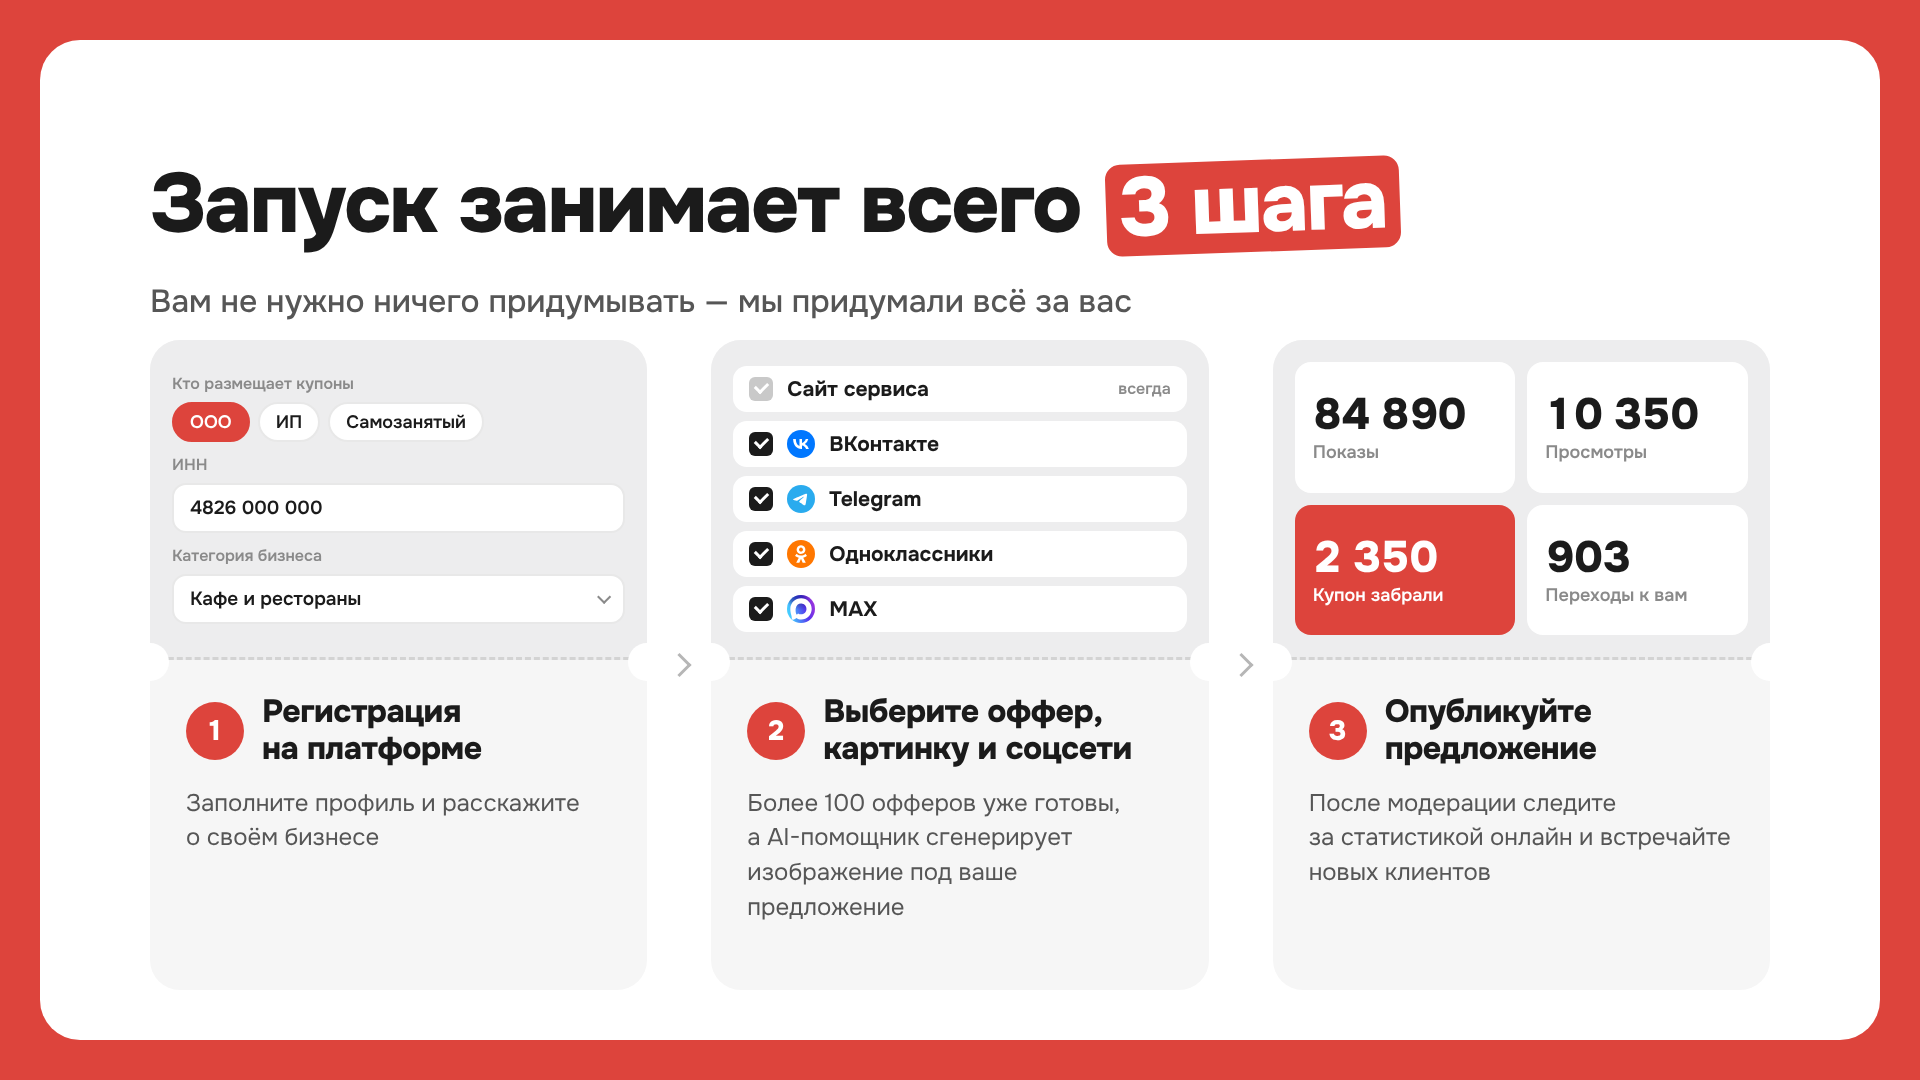
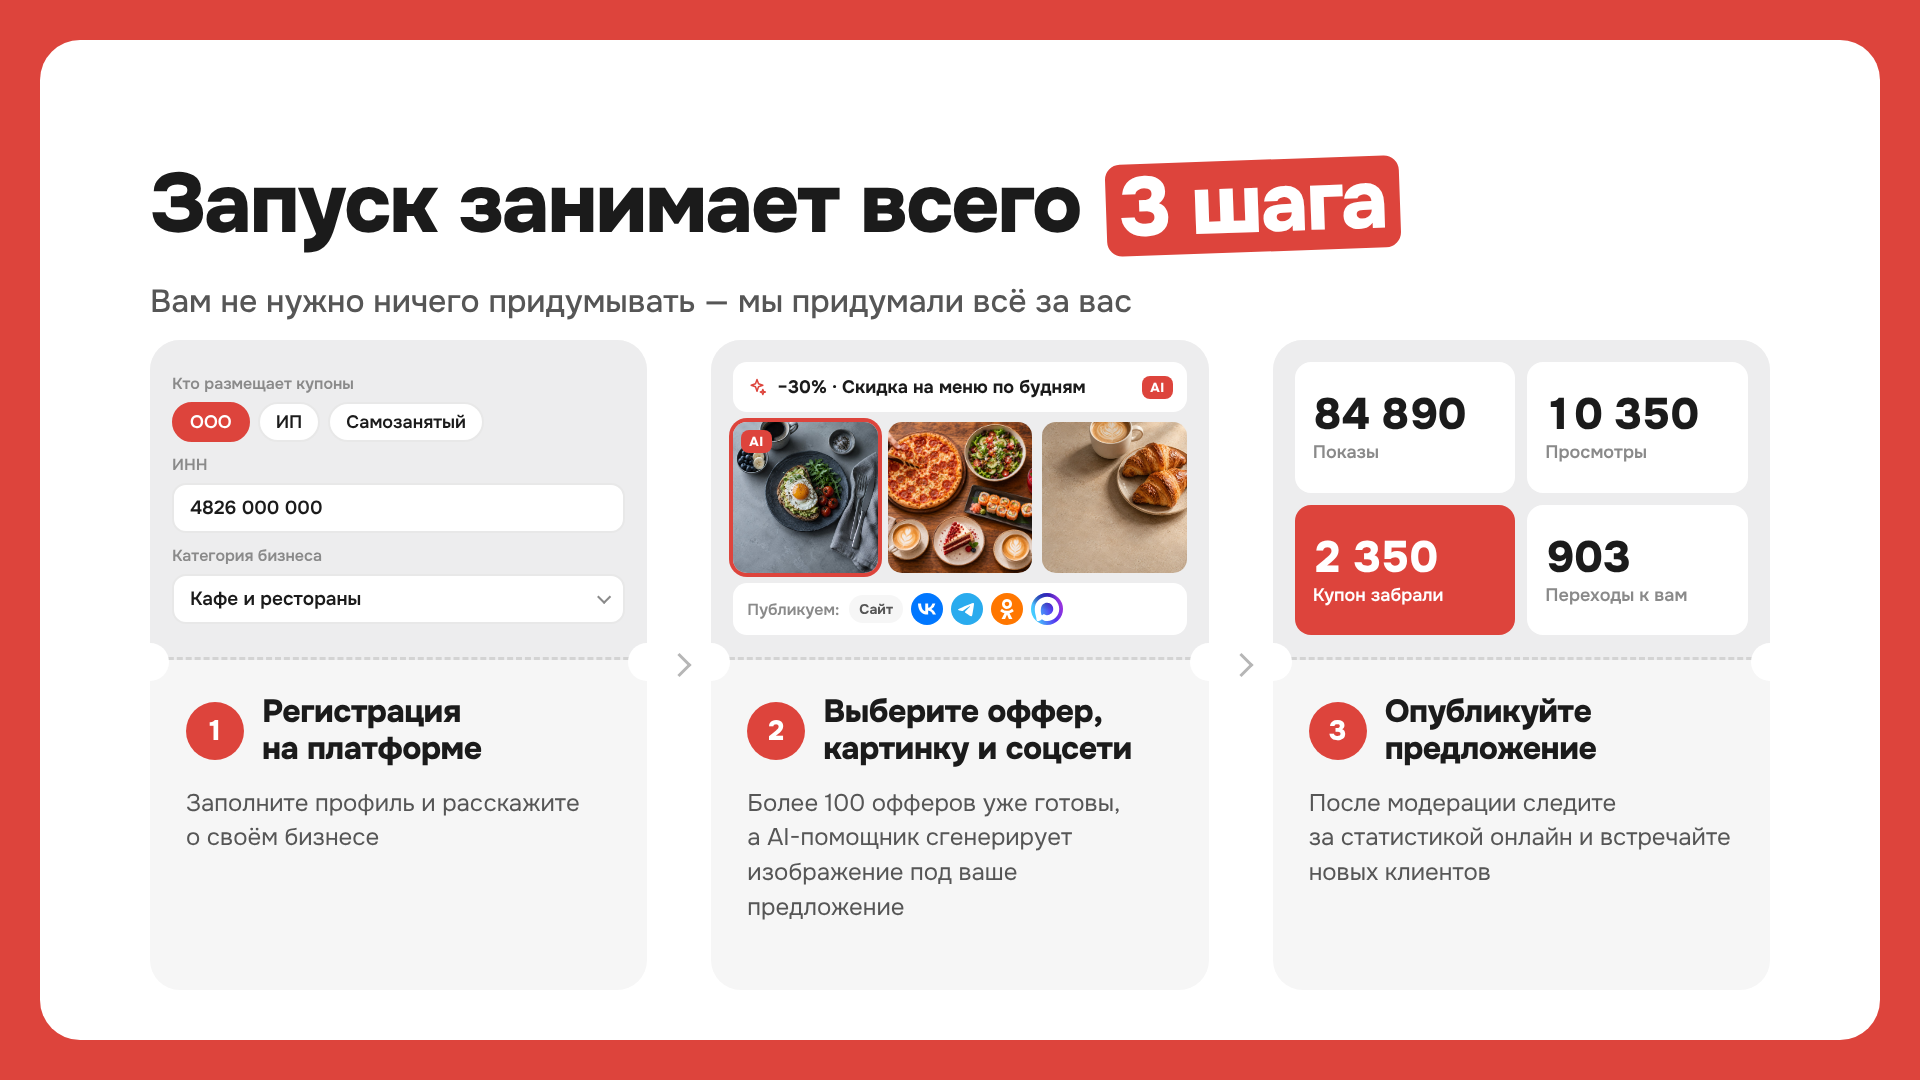
Презентация: во втором шаге — оффер от AI, сгенерированные картинки и соцсети
Claude-Session: https://claude.ai/code/session_01HQTTQEBkqu3b2tPP56NRpL

Changed region(s): [[0.375, 0.3361, 0.625, 0.5806]]

diff --git a/social-kit/deck.html b/social-kit/deck.html
@@ -323,6 +323,21 @@ a{color:inherit;text-decoration:none}
 .chn .soc-ic,.chn img{width:28px;height:28px;border-radius:50%;flex:none}
 .chn .soc-ic__bg{fill:var(--soc-c)}.chn .soc-ic__g{fill:#fff}
 .chn span{margin-left:auto;font-size:16px;font-weight:600;color:var(--ink-3)}
+/* Шаг 2: оффер от AI, сгенерированные картинки, соцсети — всё в одном */
+.mix{display:flex;flex-direction:column;gap:10px;height:100%}
+.mix__offer{flex:none;height:50px;display:flex;align-items:center;gap:10px;padding:0 14px;border-radius:14px;background:#fff;font-size:18px;font-weight:700;white-space:nowrap}
+.mix__offer svg{width:20px;height:20px;color:var(--brand);flex:none}
+.mix em{font-style:normal;font-size:13px;font-weight:800;letter-spacing:.04em;padding:3px 8px;border-radius:8px;background:var(--brand);color:#fff}
+.mix__offer em{margin-left:auto}
+.mix__imgs{flex:1;display:flex;gap:10px;min-height:0}
+.mix__imgs i{position:relative;flex:1;border-radius:14px;background:center / cover no-repeat}
+.mix__imgs i.is-on{box-shadow:0 0 0 4px var(--brand)}
+.mix__imgs i em{position:absolute;left:8px;top:8px}
+.mix__soc{flex:none;height:52px;display:flex;align-items:center;gap:8px;padding:0 14px;border-radius:14px;background:#fff}
+.mix__soc span{font-size:16px;font-weight:600;color:var(--ink-3);margin-right:2px}
+.mix__site{font-size:14px;font-weight:700;padding:5px 10px;border-radius:14px;background:var(--surface);color:var(--ink-2)}
+.mix__soc .soc-ic,.mix__soc img{width:32px;height:32px;border-radius:50%;flex:none}
+.mix__soc .soc-ic__bg{fill:var(--soc-c)}.mix__soc .soc-ic__g{fill:#fff}
 .kpi{display:grid;grid-template-columns:1fr 1fr;gap:12px;height:100%}
 .kpi div{display:flex;flex-direction:column;justify-content:center;padding:0 18px;border-radius:16px;background:#fff}
 .kpi b{font-size:44px;font-weight:800;letter-spacing:-.03em;line-height:1.05;font-variant-numeric:tabular-nums}
@@ -570,12 +585,14 @@ a{color:inherit;text-decoration:none}
         <div class="step__d">Заполните профиль и&nbsp;расскажите о&nbsp;своём бизнесе</div>
       </div>
       <div class="step">
-        <div class="step__shot"><div class="chn">
-          <div class="is-off"><b></b>Сайт сервиса<span>всегда</span></div>
-          <div><b></b><i data-soc-ic="vk"></i>ВКонтакте</div>
-          <div><b></b><i data-soc-ic="tg"></i>Telegram</div>
-          <div><b></b><i data-soc-ic="ok"></i>Одноклассники</div>
-          <div><b></b><i data-soc-ic="max"></i>MAX</div>
+        <div class="step__shot"><div class="mix">
+          <div class="mix__offer"><svg data-i="spark"></svg>−30% · Скидка на&nbsp;меню по&nbsp;будням<em>AI</em></div>
+          <div class="mix__imgs">
+            <i class="is-on" style="background-image:url('../assets/coupons/eda-cool.jpg')"><em>AI</em></i>
+            <i style="background-image:url('photos/table.jpg');background-position:30% 50%"></i>
+            <i style="background-image:url('../assets/coupons/kofe-warm.jpg')"></i>
+          </div>
+          <div class="mix__soc"><span>Публикуем:</span><b class="mix__site">Сайт</b><i data-soc-ic="vk"></i><i data-soc-ic="tg"></i><i data-soc-ic="ok"></i><i data-soc-ic="max"></i></div>
         </div></div>
         <i class="step__cut step__cut--l"></i><i class="step__cut step__cut--r"></i>
         <div class="step__h"><span class="step__n">2</span><div class="step__t">Выберите оффер, картинку и&nbsp;соцсети</div></div>
